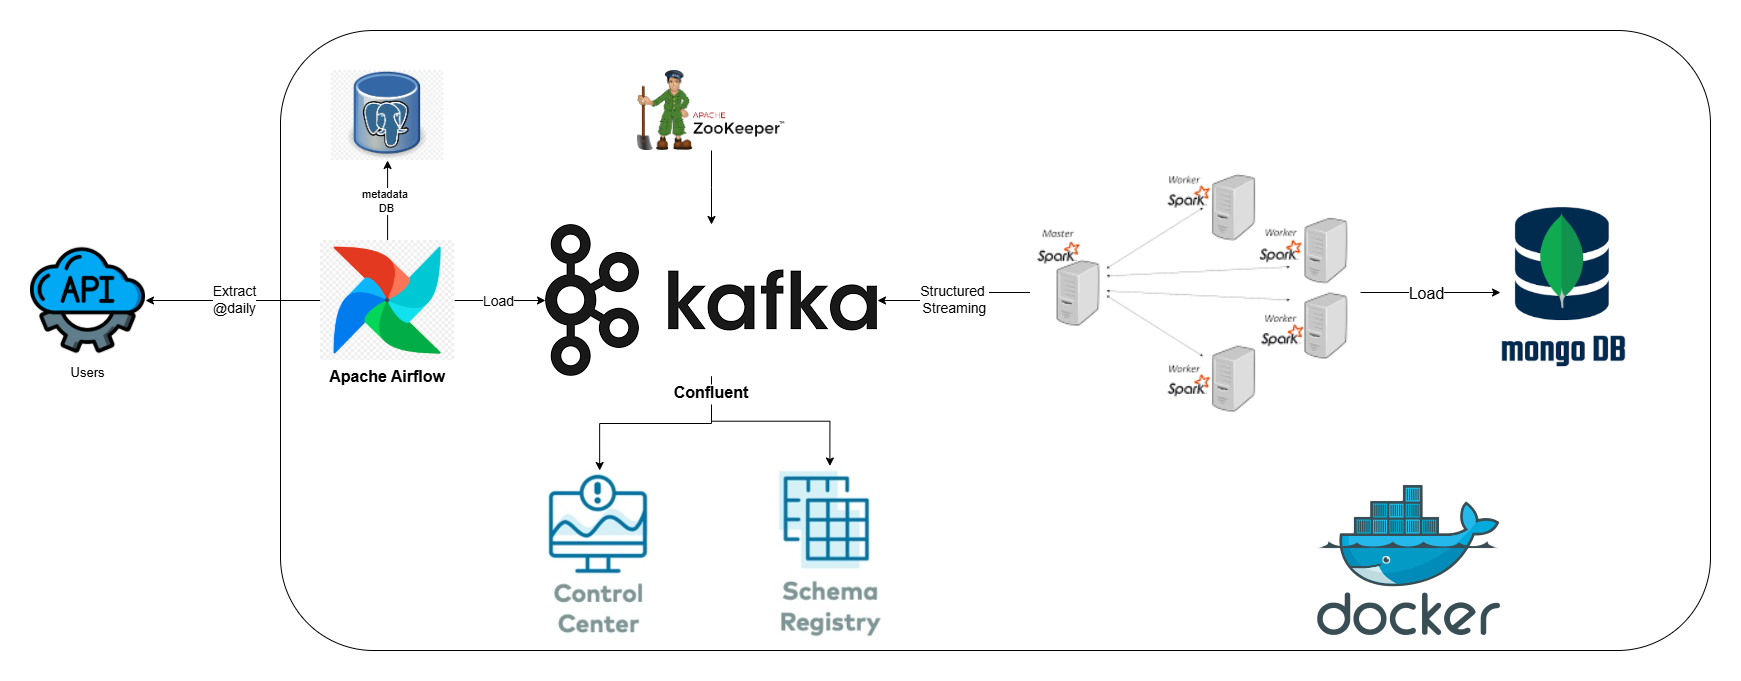
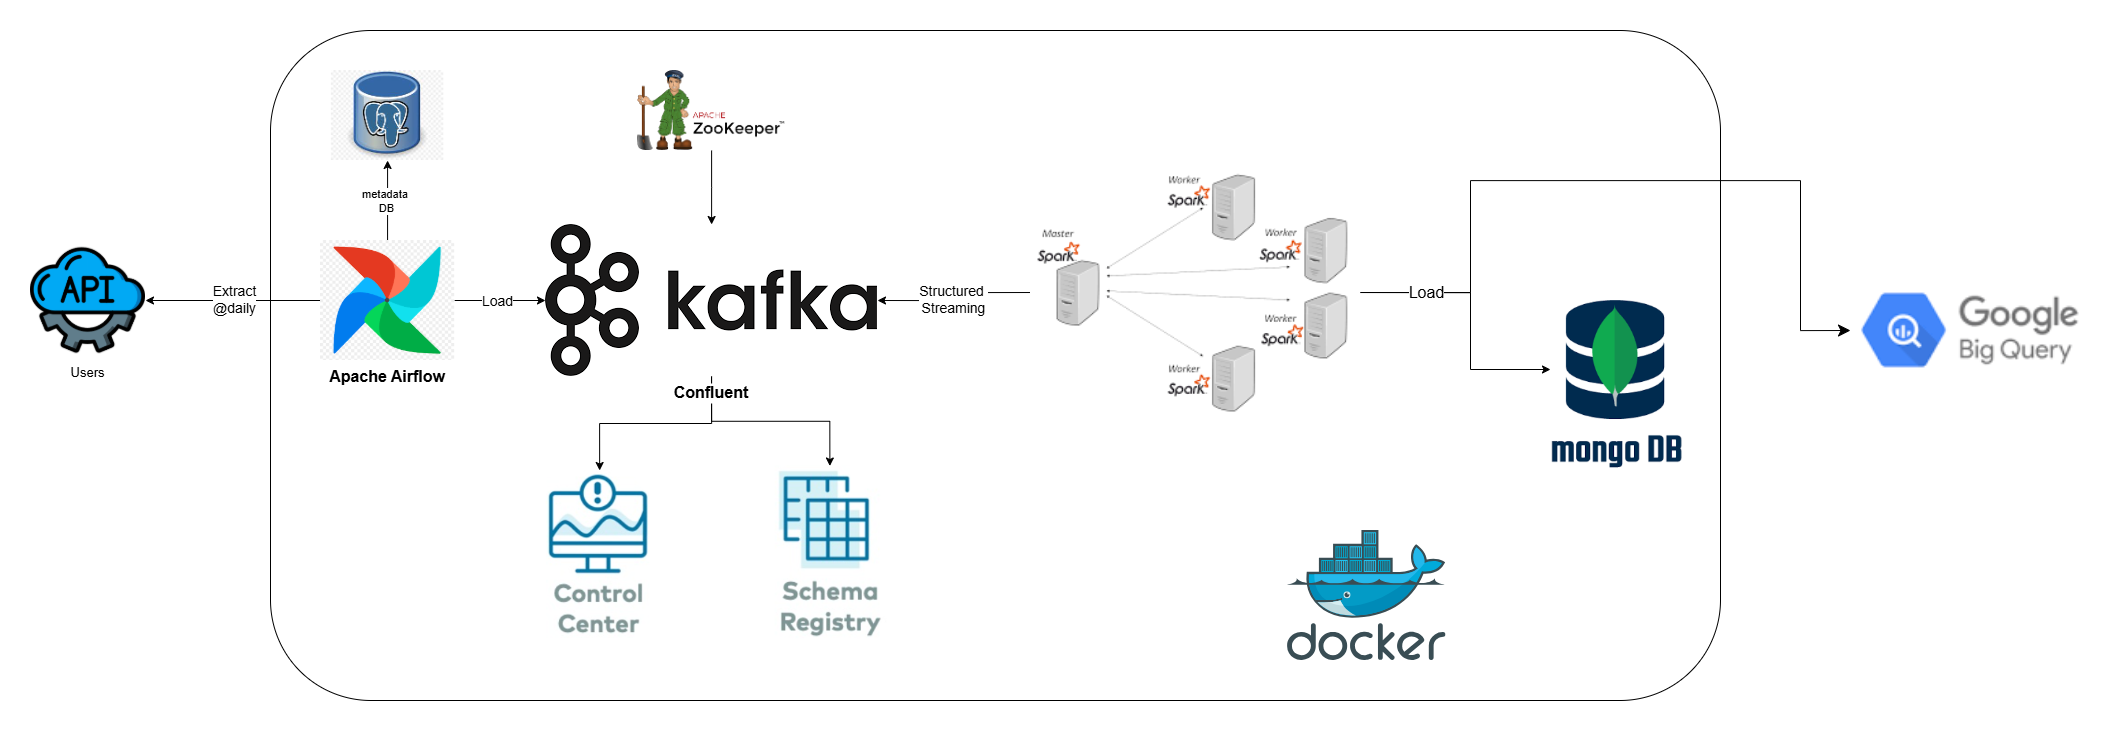
Update spark job, write to mongo and bq Update README

diff --git a/spark/src/jobs/kafka_to_mongo.py b/spark/src/jobs/kafka_to_mongo.py
@@ -58,6 +58,7 @@ def transform_kafka_df(spark_df):
 
     return spark_df
 
+
 # Write to MongoDB
 def write_to_mongo(df):
     try:
@@ -70,7 +71,7 @@ def write_to_mongo(df):
             .outputMode("append") \
             .start()
 
-        query.awaitTermination()
+        return query
     except Exception as e:
         logging.error(f"Error while writing to mongo: {e}")
         exit(1)
@@ -84,7 +85,7 @@ def write_to_bigquery(df):
             .option("checkpointLocation", "/tmp/kafka-bigquery-checkpoint") \
             .start()
         
-        query.awaitTermination()
+        return query
     except Exception as e:
         logging.error(f"Error while writing to bigquery: {e}")
 
@@ -116,6 +117,6 @@ def start_job():
         spark_df = read_from_kafka(spark)
         transformed_df = transform_kafka_df(spark_df)
         # write_to_console(transformed_df)
-        # write_to_mongo(transformed_df)
-        write_to_bigquery(transformed_df)
-        
+        mongo_query = write_to_mongo(transformed_df)
+        bq_query = write_to_bigquery(transformed_df)
+        spark.streams.awaitAnyTermination()

diff --git a/README.md b/README.md
@@ -2,14 +2,8 @@
 
 ## 📘 Introduction
 
-This is a hands-on project that builds an end-to-end **data engineering pipeline**. It covers every stage — from **data ingestion** to **processing** and **storage**, using a powerful tech stack:
+This is a hands-on project that builds an end-to-end **data engineering pipeline**. It covers every stage — from **data ingestion** to **processing** and **storage**, using a modern tech stack
 
-- Apache Airflow  
-- Python  
-- Apache Kafka  
-- Apache Zookeeper  
-- Apache Spark  
-- MongoDB  
 
 All components are containerized using **Docker**.
 
@@ -31,6 +25,7 @@ All components are containerized using **Docker**.
 - **Apache Zookeeper**
 - **Apache Spark**
 - **MongoDB**
+- **Google BigQuery**
 - **PostgreSQL**
 - **Docker**
 
@@ -45,16 +40,19 @@ All components are containerized using **Docker**.
    Orchestrates the pipeline and sends fetched data to Kafka.
 
 3. **Apache Kafka & Zookeeper**  
-   Stream data from Airflow to Apache Spark.
+   Stream data from Airflow to be processed by Apache Spark.
 
 4. **Control Center & Schema Registry**  
    Monitor Kafka and manage schemas.
 
 5. **Apache Spark**  
-   Processes data from Kafka using Structured Streaming and writes it to MongoDB.
+   Processes data from Kafka using Structured Streaming and writes it to MongoDB and Google BigQuery.
 
 6. **MongoDB**  
-   Stores processed data for querying and analysis.
+   Store raw data for fast document-based access.
+
+7. **BigQuery**  
+   Store structured data for analysis and visualization.
 
 ---
 
@@ -82,9 +80,6 @@ pip install -r requirements.txt
 docker-compose up -d
 ```
 
-### 5. Start Airflow DAG
-- Go to Airflow Web UI, login, and unpause **stream_to_kafka** DAG.
-
 ---
 
 ## 🌐 Interface Links
@@ -101,23 +96,46 @@ docker-compose up -d
 
 ---
 
-## ▶ Running Spark Streaming
-### Method 1: Direct Python Run
+## ▶ Running the pipeline
+### Setup BigQuery Access
+- Create a GCP service account from IAM
+- Give the service account required permissions
+   - BigQuery Data Editor
+   - BigQuery Job User
+- Create and download JSON key file.
+- Set env variable before running pipeline
+   ```bash
+   export GOOGLE_APPLICATION_CREDENTIALS='<key_path.json>'
+   ```
+- Configure project_id and dataset in spark/src/config/setting.py
+
+### Run Airflow to extract API data
+- Go to Airflow Web UI.
+- Unpause **stream_to_kafka** DAG.
+
+### Run pyspark streaming application 
+#### Method 1: Direct Python Run
 ```bash
 python spark/src/main.py
 ```
-### Method 2: Spark Submit
+#### Method 2: Spark Submit
 ```bash
 spark-submit --master spark://localhost:7077 \
-    --packages org.apache.spark:spark-sql-kafka-0-10_2.12:3.1.1,org.mongodb.spark:mongo-spark-connector_2.12:10.5.0 \
-    spark/src/main.py
+--packages org.apache.spark:spark-sql-kafka-0-10_2.12:3.1.1,org.mongodb.spark:mongo-spark-connector_2.12:10.5.0,com.google.cloud.spark:spark-bigquery-with-dependencies_2.12:0.42.2 \
+spark/src/main.py
 ```
 
-## To be added
-- Added Bigquery
-- steps to create gcp service account and export key
-- add path to env variable GOOGLE_APPLICATION_CREDENTIALS
+### Check loaded data
+#### From mongosh
+```bash
+db.users.find()
+```
+#### From BigQuery SQL editor
+```sql
+SELECT * FROM `project_id.dataset.users`
+```
 
+---
 
 ## 📎 Reference
 
